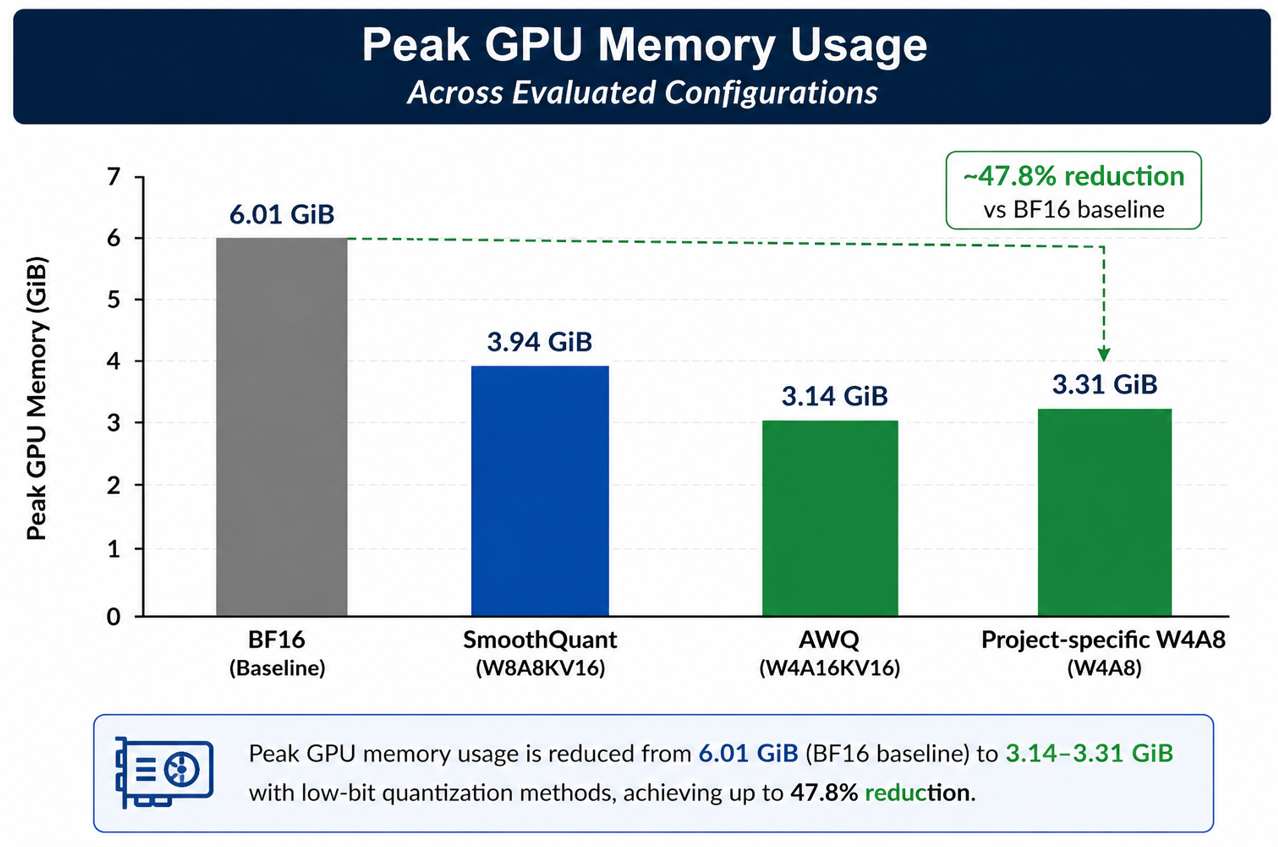
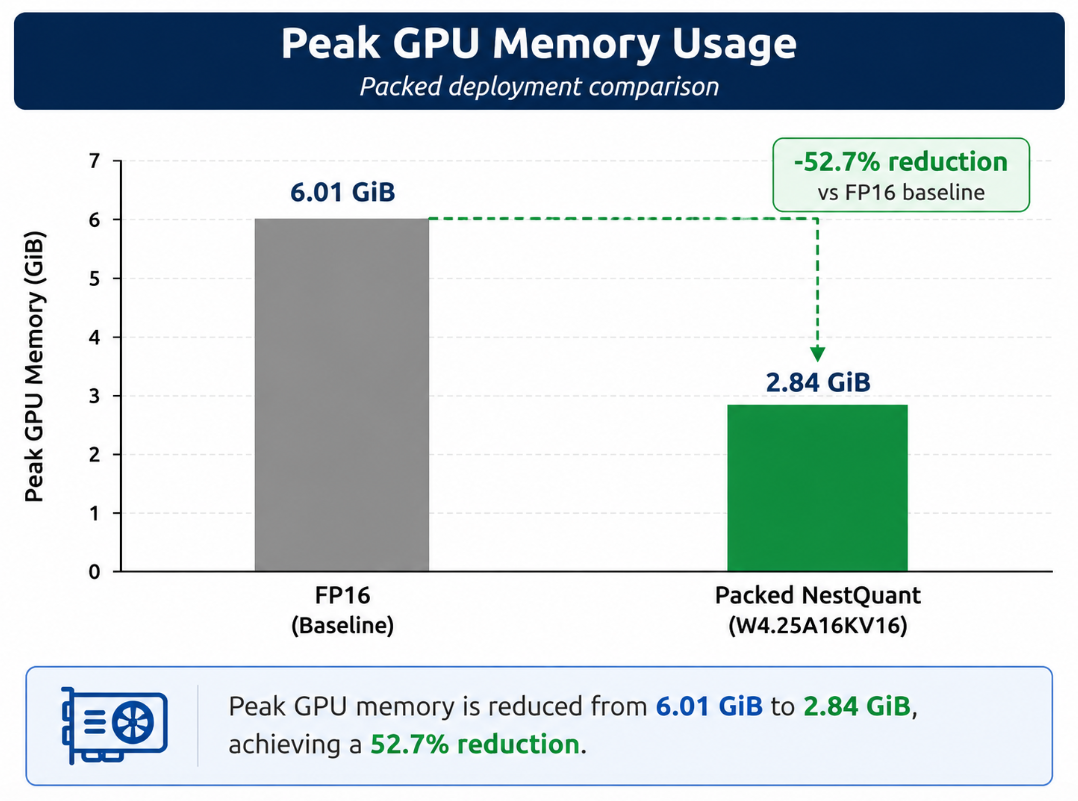
Updates from Overleaf

Changed region(s): [[0.0, 0.0, 1.0, 0.9988]]

diff --git a/chapters/Chapter2-Related Work and Literature Review.tex b/chapters/Chapter2-Related Work and Literature Review.tex
@@ -95,9 +95,9 @@ Q_{\mathrm{V}}(\mathbf{x})
 
 The joint representation allows the codebook to exploit the geometry of
 a block rather than allocating reconstruction levels independently to
-each coordinate. Classical vector quantization therefore provides a
+each coordinate~\cite{1094577}. Classical vector quantization therefore provides a
 different rate--distortion trade-off from scalar rounding. This distinction becomes important later in the chapter: GPTQ, AWQ and SmoothQuant primarily operate with scalar or group-wise representations, whereas QuIP\# and NestQuant introduce structured vector
-codebooks\cite{1094577}.
+codebooks~\cite{tseng2024quipbetterllmquantization,savkin2025nestquantnestedlatticequantization}.
 
 
 \section{Weight-Only Post-Training Quantization}
@@ -393,9 +393,9 @@ W8A8 model with a conventional 4-bit quantizer.
 Other studies address the same precision regime through alternative
 numerical representations. ZeroQuant-FP investigates FP4 weights and
 FP8 activations, together with constrained weight scaling and
-low-rank compensation, to reduce the degradation introduced by W4A8
+low-rank compensation\cite{wu2023zeroquantfpleapforwardllms}, to reduce the degradation introduced by W4A8
 quantization LQER instead combines activation-induced
-scaling with a low-rank approximation of the quantization error\cite{wu2023zeroquantfpleapforwardllms},
+scaling with a low-rank approximation of the quantization error,
 allowing part of the error discarded by the 4-bit weight representation
 to be reconstructed through an additional low-rank path\cite{pmlr-v235-zhang24j}.
 
@@ -434,7 +434,7 @@ between inputs, so calibration statistics cannot completely represent
 every activation pattern encountered during deployment. SmoothQuant
 addresses this problem by redistributing quantization difficulty from
 activations to weights through channel-wise scaling, whereas
-LLM.int8() retains selected outlier dimensions at higher precision\cite{ashkboos2024quarotoutlierfree4bitinference}.
+LLM.int8() retains selected outlier dimensions at higher precision\cite{dettmers2022llmint88bitmatrixmultiplication}.
 
 However, these approaches introduce different compromises:
 SmoothQuant remains dependent on representative calibration statistics
@@ -443,7 +443,7 @@ outlier path of LLM.int8() can introduce additional runtime overhead.
 The SmoothQuant study itself shows that an unsuitable migration strength
 can shift excessive quantization difficulty towards either activations
 or weights, demonstrating that the two operands cannot be optimised
-independently\cite{liu2025spinquantllmquantizationlearned}.
+independently~\cite{xiao2023icml-smoothquant}.
 
 \section{Structured Vector and Lattice Quantization}
 Scalar and group-wise quantizers allocate reconstruction values
@@ -473,7 +473,7 @@ dynamically at runtime.
 Recent information-theoretic work provides further motivation for
 vector-codebook approaches. Under a Gaussian weight model, universal
 codebooks can theoretically operate within a small rate gap of
-codebooks adapted to the second-order statistics of the activations\cite{egiazarian2024extremecompressionlargelanguage}. The result is non-constructive and does
+codebooks adapted to the second-order statistics of the activations. The result is non-constructive and does
 not itself provide an efficient deployment algorithm, but it reinforces
 the idea that low-bit representation can be analysed as a
 rate--distortion problem rather than only as scalar rounding.
@@ -568,6 +568,17 @@ low-bit weights with runtime activation quantization; and NestQuant
 extends structured vector quantization across weights, activations and
 the KV cache. Dedicated methods such as KIVI and KVQuant further show
 that cache quantization constitutes a separate design problem.
+
+Other methods like rotation-based methods provide another route to controlling outliers.
+QuaRot applies computationally equivalent rotations to support
+low-bit quantization of weights, activations and the KV
+cache~\cite{ashkboos2024quarotoutlierfree4bitinference}.
+SpinQuant instead learns rotation matrices to improve quantization
+accuracy~\cite{liu2025spinquantllmquantizationlearned}.
+
+AQLM provides an alternative based on learned additive codebooks and
+joint optimisation within Transformer
+blocks~\cite{egiazarian2024extremecompressionlargelanguage}.
 
 The methods also differ in calibration data, numerical formats,
 quantization granularity, model families, evaluation datasets and

diff --git a/chapters/Chapter1-Introduction.tex b/chapters/Chapter1-Introduction.tex
@@ -57,7 +57,7 @@ Memory capacity is not the only constraint. Even when a model fits within GPU me
 
 The impact of memory traffic differs between the two principal phases of autoregressive inference. During prompt processing which commonly referred to the \emph{prefill} phase, multiple input tokens can be processed in parallel and the resulting matrix operations typically exhibit comparatively high computational intensity. During autoregressive \emph{decode}, only one or a small number of new tokens are generally processed at each generation step. Although the Transformer layers must still access the model parameters for every generated token, less arithmetic work is performed per weight access. Consequently, the repeated movement of model weights can become an important contributor to decoding latency, particularly when inference is limited by memory bandwidth rather than raw floating-point computational throughput\cite{kim2024squeezellmdenseandsparsequantization}.
 
-The inference-memory footprint also extends beyond the model weights. Intermediate \emph{activations} are generated dynamically as information propagates through the attention and feed-forward components of each Transformer block. Their memory requirements depend on factors including batch size, sequence length and hidden-state dimensionality. Unlike weights which can remain fixed after training, activations depend on the current input and must be processed during runtime. Reducing their precision consequently requires a runtime quantization strategy and introduces an additional source of quantization error within the inference computation\cite{dao2022flashattentionfastmemoryefficientexact}.
+The inference-memory footprint also extends beyond the model weights. Intermediate \emph{activations} are generated dynamically as information propagates through the attention and feed-forward components of each Transformer block. Their memory requirements depend on factors including batch size, sequence length and hidden-state dimensionality\cite{dao2022flashattentionfastmemoryefficientexact}. Unlike weights which can remain fixed after training, activations depend on the current input and must be processed during runtime. Reducing their precision consequently requires a runtime quantization strategy and introduces an additional source of quantization error within the inference computation~\cite{xiao2023icml-smoothquant}.
 
 A further source of inference memory is the \ac{KV} cache. During autoregressive generation, the self-attention mechanism produces key and value representations for each processed token. When a new token is generated, recomputing these representations for all preceding tokens would introduce substantial redundant computation. Instead, previously computed key and value tensors are retained in memory and reused during subsequent decoding steps. This substantially improves computational efficiency, but creates an additional memory requirement that is separate from the static model-weight footprint.
 

diff --git a/chapters/Chapter3-Methodology and Experimental Design.tex b/chapters/Chapter3-Methodology and Experimental Design.tex
@@ -446,6 +446,52 @@ where \(q\) controls the discrete lattice-code representation and
 \(k\) denotes the number of candidate scaling coefficients available
 during vector quantization.
 
+The notation W4.25 used in this dissertation refers to the effective
+packed storage rate of the retained NestQuant weight representation,
+rather than directly to the theoretical entropy associated with
+\(q=14\) and \(k=4\).
+
+For an 8-dimensional vector, \(q=14\) provides 14 possible lattice-code
+states per coordinate, while \(k=4\) provides four candidate scaling
+coefficients. The corresponding ideal code rate is therefore
+
+\begin{equation}
+R_{\mathrm{ideal}}
+=
+\log_{2}(14)
++
+\frac{\log_{2}(4)}{8}
+\approx
+4.0574
+\quad
+\text{bits per weight}.
+\label{eq:nestquant-ideal-rate}
+\end{equation}
+
+In the retained packed implementation, however, each lattice-code
+coordinate is stored using a fixed 4-bit field. In addition, each
+8-dimensional vector stores a 2-bit index identifying one of the four
+candidate scaling coefficients. The resulting physical packed rate is
+
+\begin{equation}
+R_{\mathrm{packed}}
+=
+4
++
+\frac{2}{8}
+=
+4.25
+\quad
+\text{bits per weight}.
+\label{eq:nestquant-packed-rate}
+\end{equation}
+
+Accordingly, W4.25 denotes the practical packed weight representation
+used in this project. It should not be interpreted as the theoretical
+rate implied solely by the \(q=14,\;k=4\) configuration. The complete
+model footprint is also affected by scaling and normalisation metadata,
+padding, and tensors that remain outside the quantized weight scope.
+
 Before lattice quantization, the relevant tensors are transformed using
 an orthogonal Hadamard rotation. The purpose of this transformation is
 to redistribute large-magnitude coordinates across dimensions and

diff --git a/chapters/Abstract.tex b/chapters/Abstract.tex
@@ -2,7 +2,6 @@
 % Example text
 % Write your abstract here
 
-\begin{itemize}
 The deployment of large language models is increasingly constrained by
 their high memory and computational requirements, while aggressive
 low-bit quantization can introduce substantial degradation in model
@@ -18,7 +17,6 @@ quantization is more quality-sensitive than KV-cache quantization. Overall, the 
 that practical low-bit LLM quantization requires a joint consideration
 of model quality, memory reduction, quantization scope and deployability.
 
-\end{itemize}
 
 
 %%%%%%%%%%%%%%%%%%%%%%%%%%%%%%%%%%%%%%%

diff --git a/main.tex b/main.tex
@@ -130,7 +130,7 @@ Comparative Evaluation of AWQ, SmoothQuant, W4A8 and NestQuant
 \input{chapters/Chapter2-Related Work and Literature Review}
 \input{chapters/Chapter3-Methodology and Experimental Design}
 \input{chapters/Chapter4-Experimental Results and Discussion}
-\input{chapters/Chapter5-Conclusion}
+\input{chapters/Chapter5-Future Work, Sustainability and Environmental Impact}
 
 
 % You can change the title of the conclusions by changing the text between { }

diff --git a/chapters/Chapter5-Future Work, Sustainability and Environmental Impact.tex b/chapters/Chapter5-Future Work, Sustainability and Environmental Impact.tex
@@ -1,6 +1,6 @@
 \doublespacing % Do not change - required
 
-\chapter{Future work and Substainability and Environment impact}
+\chapter{Future Work, Sustainability and Environmental Impact}
 \label{ch5}
 
 %%%%%%%%%%%%%%%%%%%%%%%%%%%%%%%%%%%%%%%
